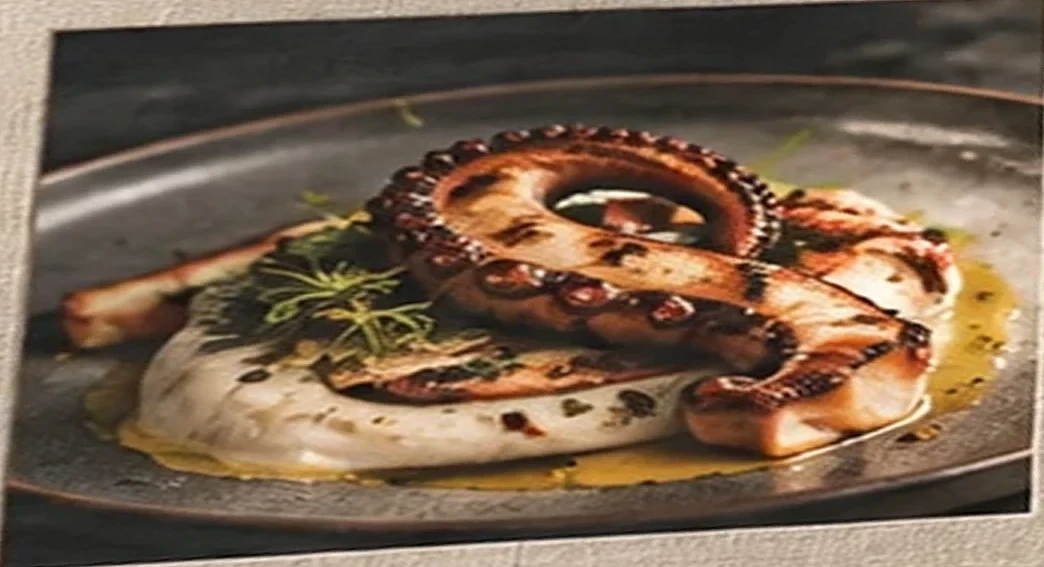
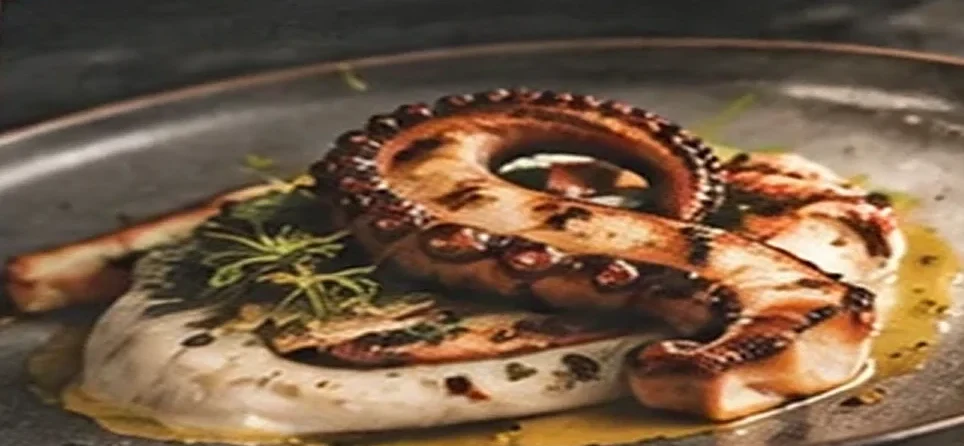
Menu: tap a thumbnail to see the whole dish
A thumbnail with a photo now opens it full screen, uncropped, with the
dish's name, price and description, and the showcase moves to that
dish behind it. It closes on the close button, a tap outside, a swipe
down or Escape; wheel gestures and keys wait while it is open. The
thumbnails can be reached with Tab. The octopus photo is trimmed of
the pale frame that showed once it was seen whole.

Claude-Session: https://claude.ai/code/session_01XbKzAV8pCZKfyzZBmZHLVo

diff --git a/src/components/menu-stack/PhotoViewer.tsx b/src/components/menu-stack/PhotoViewer.tsx
@@ -1,0 +1,130 @@
+"use client";
+
+import Image from "next/image";
+import { useEffect, useRef, useState } from "react";
+import { createPortal } from "react-dom";
+import type { Dish, MenuLocale } from "@/content/menus/types";
+import { CloseIcon } from "./icons";
+import { Price } from "./Price";
+import { menuStrings } from "./strings";
+
+/** Swipe distance that closes the viewer. */
+const CLOSE_DRAG = 90;
+
+/**
+ * A dish's photograph, large and uncropped, with its name, price and
+ * description. Closes on the ✕, a tap outside the photo, a swipe down or
+ * Escape, and hands focus back to whatever opened it.
+ */
+export function PhotoViewer({ dish, locale, reduced, onClose }: { dish: Dish; locale: MenuLocale; reduced: boolean; onClose: () => void }) {
+  const s = menuStrings[locale];
+  const close = useRef<HTMLButtonElement>(null);
+  const [drag, setDrag] = useState(0);
+  const [leaving, setLeaving] = useState(false);
+  const start = useRef<{ id: number; y: number } | null>(null);
+  const photo = dish.photo!;
+
+  const dismiss = () => {
+    if (leaving) return;
+    if (reduced) return onClose();
+    setLeaving(true);
+    window.setTimeout(onClose, 200);
+  };
+
+  useEffect(() => {
+    const opener = document.activeElement as HTMLElement | null;
+    close.current?.focus();
+    const onKey = (e: KeyboardEvent) => {
+      if (e.key === "Escape") {
+        e.preventDefault();
+        dismiss();
+      }
+    };
+    window.addEventListener("keydown", onKey);
+    return () => {
+      window.removeEventListener("keydown", onKey);
+      opener?.focus?.();
+    };
+    // eslint-disable-next-line react-hooks/exhaustive-deps
+  }, []);
+
+  // swipe down to close: the photo follows the finger, then closes or settles back
+  // (stopPropagation: the portal still bubbles React events up to the wheel's handlers)
+  const onPointerDown = (e: React.PointerEvent) => {
+    e.stopPropagation();
+    if (e.pointerType !== "mouse" && e.isPrimary) start.current = { id: e.pointerId, y: e.clientY };
+  };
+  const onPointerMove = (e: React.PointerEvent) => {
+    e.stopPropagation();
+    if (start.current?.id === e.pointerId) setDrag(Math.max(0, e.clientY - start.current.y));
+  };
+  const onPointerUp = (e: React.PointerEvent) => {
+    e.stopPropagation();
+    if (start.current?.id !== e.pointerId) return;
+    start.current = null;
+    if (drag > CLOSE_DRAG) dismiss();
+    else setDrag(0);
+  };
+
+  const fade = 1 - Math.min(1, drag / (CLOSE_DRAG * 3));
+
+  // portalled to <body>: the wheel's animated wrappers would otherwise become the fixed box's frame
+  return createPortal(
+    <div
+      role="dialog"
+      aria-modal="true"
+      aria-label={dish.name[locale]}
+      className={`fixed inset-0 z-[90] flex touch-none flex-col items-center justify-center px-4 pt-[max(env(safe-area-inset-top),56px)] pb-[max(env(safe-area-inset-bottom),24px)] select-none ${reduced ? "" : leaving ? "photo-out" : "photo-in"}`}
+      style={{ backgroundColor: `rgb(5 4 3 / ${0.94 * fade})` }}
+      onClick={(e) => {
+        e.stopPropagation();
+        dismiss();
+      }}
+      onPointerDown={onPointerDown}
+      onPointerMove={onPointerMove}
+      onPointerUp={onPointerUp}
+      onPointerCancel={(e) => {
+        e.stopPropagation();
+        start.current = null;
+        setDrag(0);
+      }}
+    >
+      <button
+        ref={close}
+        type="button"
+        aria-label={s.close}
+        onClick={(e) => {
+          e.stopPropagation();
+          dismiss();
+        }}
+        className="absolute top-[max(env(safe-area-inset-top),10px)] right-3 flex h-12 w-12 items-center justify-center rounded-full bg-white/10 text-cream backdrop-blur-sm transition-colors hover:bg-white/20"
+      >
+        <CloseIcon className="h-6 w-6" />
+      </button>
+
+      <figure
+        className="m-0 w-full max-w-[560px]"
+        style={{
+          transform: drag ? `translateY(${drag}px) scale(${1 - Math.min(0.08, drag / 2000)})` : undefined,
+          transition: drag && start.current ? "none" : "transform 260ms cubic-bezier(0.22, 0.61, 0.36, 1)",
+        }}
+      >
+        <div
+          className="relative mx-auto w-full overflow-hidden rounded-[22px] shadow-[0_0_0_1px_rgba(236,196,132,0.55),0_30px_80px_-20px_rgba(0,0,0,0.9)]"
+          style={{ aspectRatio: `${photo.width} / ${photo.height}`, maxHeight: "62dvh", maxWidth: `calc(62dvh * ${photo.width / photo.height})` }}
+          onClick={(e) => e.stopPropagation()}
+        >
+          <Image src={photo.src} alt={dish.name[locale]} fill priority sizes="(max-width: 600px) 94vw, 560px" className="object-cover" draggable={false} />
+        </div>
+        <figcaption className="mx-auto mt-5 max-w-[520px] px-1" style={{ opacity: fade }} onClick={(e) => e.stopPropagation()}>
+          <div className="flex items-baseline justify-between gap-4">
+            <span className="font-serif text-[clamp(24px,7vw,30px)] leading-tight text-cream">{dish.name[locale]}</span>
+            <Price value={dish.price} className="shrink-0 font-serif text-[clamp(22px,6.4vw,28px)] text-cream" />
+          </div>
+          <p className="mt-2 text-[15.5px] leading-[1.55] font-light text-cream-soft">{dish.description[locale]}</p>
+        </figcaption>
+      </figure>
+    </div>,
+    document.body,
+  );
+}

diff --git a/src/components/menu-stack/DishShowcase.tsx b/src/components/menu-stack/DishShowcase.tsx
@@ -6,6 +6,7 @@ import { Wordmark } from "@/components/brand/BrandLogo";
 import type { CategoryIcon as CategoryIconName, Dish, MenuLocale } from "@/content/menus/types";
 import { Price } from "./Price";
 import { CategoryIcon } from "./icons";
+import { PhotoViewer } from "./PhotoViewer";
 import { menuStrings } from "./strings";
 
 /** One change of dish, start to finish. Inputs are ignored until it has played out. */
@@ -29,7 +30,8 @@ function loop(x: number, n: number) {
 /**
  * A category's dishes, one at a time: the selected dish's photograph large on
  * the right, its name, description and price over the left, and every dish
- * of the category as a thumbnail underneath. One swipe, one wheel gesture,
+ * of the category as a thumbnail underneath; a thumbnail opens its dish's
+ * photograph whole, full screen. One swipe, one wheel gesture,
  * one key press or a tap on a thumbnail moves to exactly one dish; `go`
  * holds the lock that keeps changes from overlapping.
  */
@@ -58,6 +60,8 @@ export function DishShowcase({
   const [size, setSize] = useState({ w: 0, h: 0 });
   const indexRef = useRef(index);
   indexRef.current = index;
+  // the dish shown whole, full screen
+  const [viewing, setViewing] = useState<Dish | null>(null);
 
   useLayoutEffect(() => {
     const el = stage.current;
@@ -271,10 +275,13 @@ export function DishShowcase({
                 key={d.id}
                 type="button"
                 data-dish={i}
-                tabIndex={-1}
-                aria-label={d.name[locale]}
+                aria-label={d.photo ? `${s.viewPhoto}: ${d.name[locale]}` : d.name[locale]}
                 aria-current={i === index ? "true" : undefined}
-                onClick={() => i !== index && go(i)}
+                onClick={() => {
+                  // the menu moves to the dish too, so it is there when the photo closes
+                  if (i !== index) go(i);
+                  if (d.photo) setViewing(d);
+                }}
                 className={`relative shrink-0 overflow-hidden rounded-[14px] border transition-[border-color,box-shadow] duration-300 ${
                   i === index
                     ? "border-[#e8b86a] shadow-[0_0_0_1px_rgba(232,184,106,0.5),0_0_22px_rgba(214,150,70,0.45)]"
@@ -305,6 +312,7 @@ export function DishShowcase({
           )}
         </>
       )}
+      {viewing && <PhotoViewer dish={viewing} locale={locale} reduced={reduced} onClose={() => setViewing(null)} />}
       <p aria-live="polite" className="sr-only">
         {active ? `${active.name[locale]}, ${active.price}. ${s.position(index + 1, n)}` : ""}
       </p>

diff --git a/src/components/menu-stack/strings.ts b/src/components/menu-stack/strings.ts
@@ -7,6 +7,8 @@ export const menuStrings: Record<
     language: string;
     languages: Record<MenuLocale, string>;
     categories: string;
+    close: string;
+    viewPhoto: string;
     hint: string;
     position: (n: number, total: number) => string;
   }
@@ -15,6 +17,8 @@ export const menuStrings: Record<
     language: "Language",
     languages: { en: "English", tr: "Türkçe" },
     categories: "Menu categories",
+    close: "Close",
+    viewPhoto: "View the full dish",
     hint: "Swipe for more",
     position: (n, t) => `Dish ${n} of ${t}`,
   },
@@ -22,6 +26,8 @@ export const menuStrings: Record<
     language: "Dil",
     languages: { en: "English", tr: "Türkçe" },
     categories: "Menü kategorileri",
+    close: "Kapat",
+    viewPhoto: "Yemeği tam göster",
     hint: "Daha fazlası için kaydırın",
     position: (n, t) => `Yemek ${n} / ${t}`,
   },

diff --git a/src/app/globals.css b/src/app/globals.css
@@ -238,3 +238,27 @@ body {
 .show-out {
   animation: show-out 460ms cubic-bezier(0.4, 0, 0.6, 1) both;
 }
+
+/* Interactive menu: a dish photo opens and closes. */
+@keyframes photo-in {
+  from {
+    opacity: 0;
+    transform: scale(0.96);
+  }
+  to {
+    opacity: 1;
+    transform: none;
+  }
+}
+
+.photo-in {
+  animation: photo-in 280ms cubic-bezier(0.22, 0.61, 0.36, 1) both;
+}
+
+.photo-out {
+  opacity: 0;
+  transform: scale(0.97);
+  transition:
+    opacity 200ms ease-in,
+    transform 200ms ease-in;
+}

diff --git a/src/content/menus/liman.ts b/src/content/menus/liman.ts
@@ -37,7 +37,7 @@ export const liman: RestaurantMenu = {
           name: { en: "Charred Octopus", tr: "Közlenmiş Ahtapot" },
           description: { en: "Fava purée, capers, lemon oil and wild herbs.", tr: "Fava püresi, kapari, limon yağı ve yabani otlar." },
           price: "₺480",
-          photo: photo("charred-octopus", 1044, 567),
+          photo: photo("charred-octopus", 964, 446),
         },
         {
           id: "burrata",

diff --git a/src/components/menu-stack/icons.tsx b/src/components/menu-stack/icons.tsx
@@ -55,3 +55,11 @@ export function WaveMark({ className = "" }: P) {
     </svg>
   );
 }
+
+export function CloseIcon({ className = "h-6 w-6" }: P) {
+  return (
+    <svg viewBox="0 0 24 24" aria-hidden="true" className={className} {...line} strokeWidth={1.6}>
+      <path d="m6 6 12 12M18 6 6 18" />
+    </svg>
+  );
+}

diff --git a/README.md b/README.md
@@ -93,7 +93,9 @@ A mobile-first menu for each restaurant (`src/components/menu-stack/`):
   photograph on the right, fading into the dark, with the category, name,
   description and gold price over its left side and a count with one bar per
   dish. Every dish of the category sits underneath as a thumbnail (the strip
-  scrolls sideways when they don't fit). This is `DishShowcase.tsx`.
+  scrolls sideways when they don't fit); tapping one with a photo also opens
+  the whole dish full screen (✕, a tap outside, a swipe down or Escape closes
+  it). This is `DishShowcase.tsx`.
 - **Moving through it:** one deliberate swipe up or down, one wheel or
   trackpad gesture, an arrow key or Page Up/Down moves exactly one dish; a tap
   on a thumbnail goes straight to it. The photograph slides and cross-fades for
